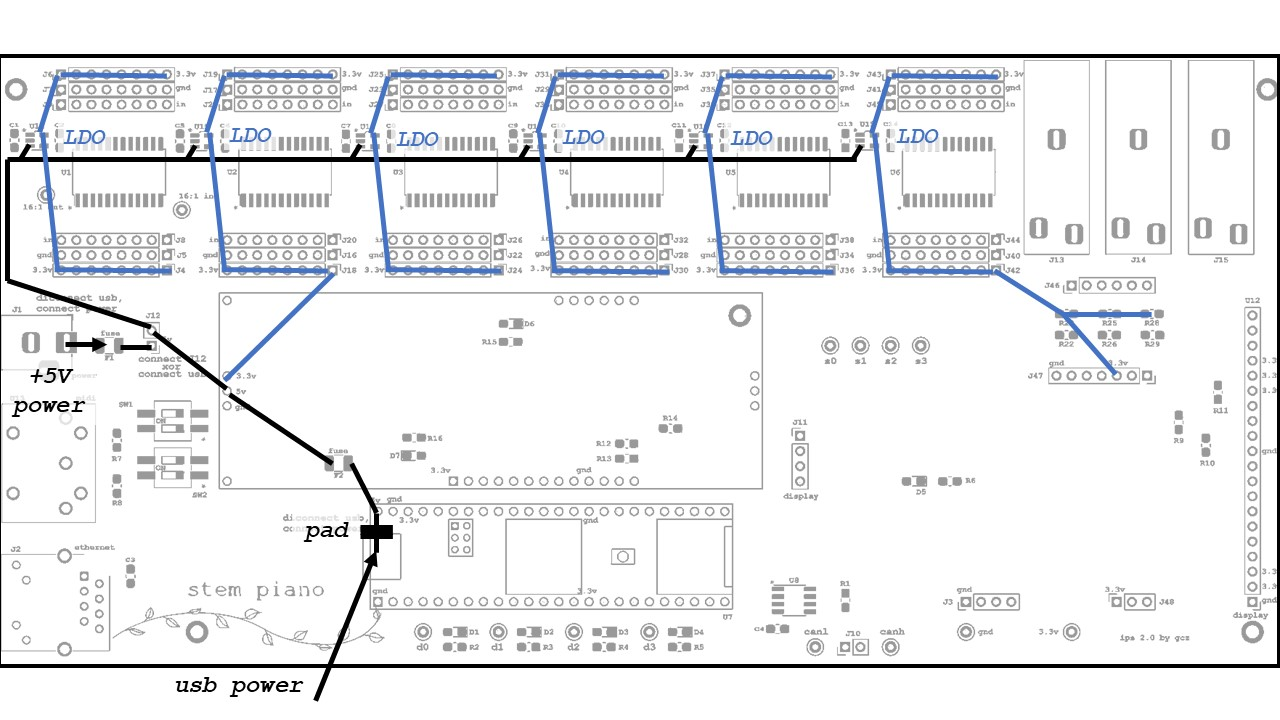
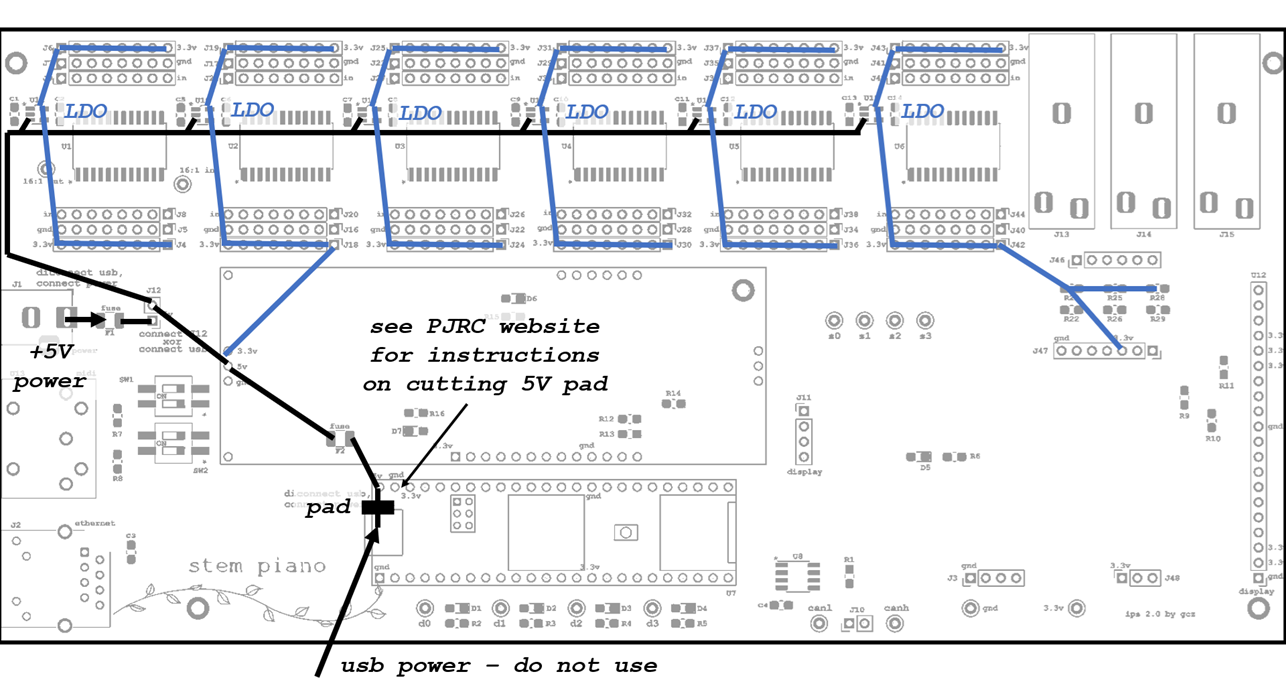
issue 78 - cut 5V pad

diff --git a/hardware/releases/ips20/README.md b/hardware/releases/ips20/README.md
@@ -49,9 +49,10 @@ For connecting pedals.
 0.1 inch spaced connectors J46. Connect to six of the sensor connectors. See instructions in the *pianos/* directory for this board.
 
 ### +5V power
-External power connection. Do not connect external +5V power while Teensy 4.1 is connected to a USB cable that is supplying power from an external source. Cut the 5V pad on Teensy 4.1 per instructions at PJRC website.
 
-https://www.pjrc.com/teensy/external_power.html
+* Cut the 5V pad on Teensy 4.1 per instructions at PJRC website before installing the Teensy processor. https://www.pjrc.com/teensy/external_power.html
+
+* See: https://github.com/stem-piano/stem-piano-top/blob/main/WARNINGS.md
 
 ### Fuse
 Location for fuses. The +5V power and USB must must automatically protect from short circuits, overcurrent, thermal, and all other failure conditions. User to decide on PCB fuse design and strategy.
@@ -99,17 +100,13 @@ Yeah!!
 
 See black lines in figure below.
 
-Cut the external computer power through the USB at Teensy 4.1 according to instructions on the PJRC website.
+* Cut the 5V pad on Teensy 4.1 per instructions at PJRC website before installing the Teensy processor. https://www.pjrc.com/teensy/external_power.html
 
-https://www.pjrc.com/teensy/external_power.html
+* See: https://github.com/stem-piano/stem-piano-top/blob/main/WARNINGS.md
 
-Do not connect both external +5V power and USB power inputs at the same time. See the PJRC website for more information, including how to cut a Teensy 4.1 pad to avoid shorting the two power inputs together.
-
-The external power supplies must automatically protect from short circuits, overcurrent, thermal, and all other failure conditions.
+All external power supplies must automatically protect from short circuits, overcurrent, thermal, and all other failure conditions.
 
 The external power supplies must be able to deliver 1.75 amps. This value is calculated by summing all current values in sections below and by testing. See *stem piano* video at the approximate 2:20 time https://www.youtube.com/watch?v=TemXGmkoc-g
-
-A typical USB port on a computer may not be able to supply a full 1.75 A. Therefore, the board will not be able to run all 88 keys sensors unless the board is powered by an external +5V power supply, through the +5V power jack. In this case (and in all cases when using the +5V external power), see instructions on https://www.pjrc.com website for cutting the 5V pad on Teensy processor.
 
 ![ips20_5v_pcb](ips20_5v_power.png)
 
@@ -154,15 +151,13 @@ The Teensy 4.1 includes a 3.3V output (green).
 
 This output is connected to the SCA, the Can bus, the TFT display, the MIDI connector, and one of the optional SCA headers (J48).
 
-According to the PJRC website, the maximum output current that the Teensy's +3.3V pin can tolerate is 250 mA.
+According to the PJRC website, the maximum output current that the Teensy's +3.3V pin can supply is 250 mA.
 
 According to the display datasheet, the TFT display (far right connector) takes 80 mA.
 
 According to the Can bus datasheet, the Can bus integrated circuit (middle bottom) takes less than 60 mA normally but can take as much as 180 mA during a bus fault.
 
 When designing an SCA board that uses the +3.3V Digital input, the current draw of TFT display and Can bus must be considered.
-
-According to a Teensy 4.1 schematic on the PJRC website, there is an LDO on the Teensy 4.1 that drives the 3.3V digital power supply, from the +5V power input. Reading information from PJRC website, the LDO appears maybe can tolerate a shorted output indefinitely. However, for safety, do not accidentally short the +3.3 Volt Digital line to ground.
 
 ![ips20_33dv_pcb](ips20_33dv_power.png)
 
